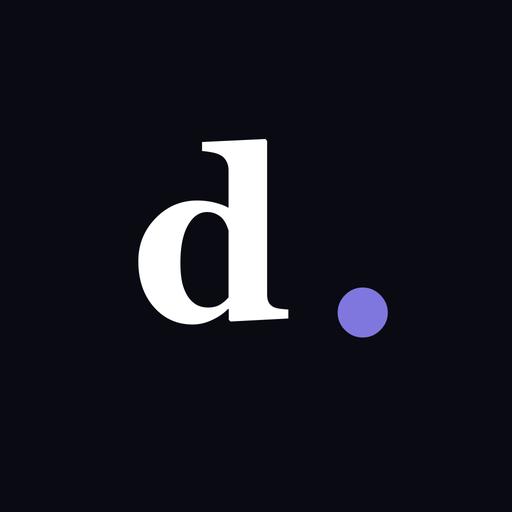
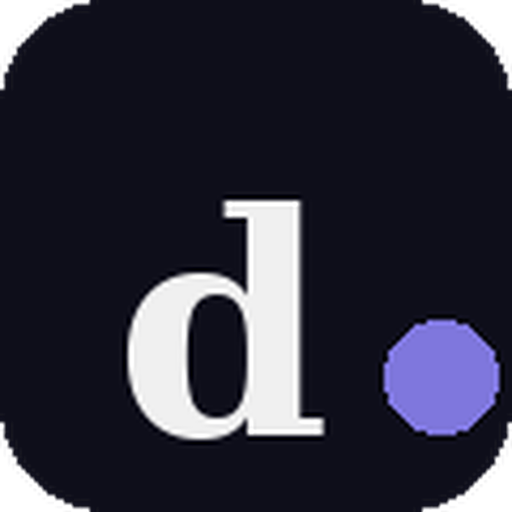
Update Dythin landing page and app layout features

diff --git a/index.html b/index.html
@@ -26,16 +26,14 @@
   <meta name="twitter:description" content="Kombinlerin ve kararsızlıkların için fotoğraflarınla anında canlı oy topla.">
   <meta name="twitter:image" content="https://images.unsplash.com/photo-1515886657613-9f3515b0c78f?auto=format&fit=crop&w=1200&h=630&q=80">
 
-  <!-- Favicons & Safari Tab Icons (Apple iOS/macOS) -->
+    <!-- Favicons & Safari Tab Icons (Direct Base64 & HD Files) -->
[2 lines of base64/hex data omitted]
   <link rel="apple-touch-icon" sizes="180x180" href="/apple-touch-icon.png">
   <link rel="icon" type="image/png" sizes="32x32" href="/favicon-32x32.png">
   <link rel="icon" type="image/png" sizes="16x16" href="/favicon-16x16.png">
-  <link rel="icon" type="image/png" href="/favicon.png">
-  <link rel="shortcut icon" href="/favicon.ico">
   <link rel="manifest" href="/site.webmanifest">
   <link rel="mask-icon" href="/safari-pinned-tab.svg" color="#7F77DD">
-  <meta name="msapplication-TileColor" content="#0e0e1a">
-  <meta name="theme-color" content="#000000">
   <meta name="apple-mobile-web-app-title" content="Dythin">
   <meta name="application-name" content="Dythin">
   

diff --git a/website/index.html b/website/index.html
@@ -26,16 +26,14 @@
   <meta name="twitter:description" content="Kombinlerin ve kararsızlıkların için fotoğraflarınla anında canlı oy topla.">
   <meta name="twitter:image" content="https://images.unsplash.com/photo-1515886657613-9f3515b0c78f?auto=format&fit=crop&w=1200&h=630&q=80">
 
-  <!-- Favicons & Safari Tab Icons (Apple iOS/macOS) -->
+    <!-- Favicons & Safari Tab Icons (Direct Base64 & HD Files) -->
[2 lines of base64/hex data omitted]
   <link rel="apple-touch-icon" sizes="180x180" href="/apple-touch-icon.png">
   <link rel="icon" type="image/png" sizes="32x32" href="/favicon-32x32.png">
   <link rel="icon" type="image/png" sizes="16x16" href="/favicon-16x16.png">
-  <link rel="icon" type="image/png" href="/favicon.png">
-  <link rel="shortcut icon" href="/favicon.ico">
   <link rel="manifest" href="/site.webmanifest">
   <link rel="mask-icon" href="/safari-pinned-tab.svg" color="#7F77DD">
-  <meta name="msapplication-TileColor" content="#0e0e1a">
-  <meta name="theme-color" content="#000000">
   <meta name="apple-mobile-web-app-title" content="Dythin">
   <meta name="application-name" content="Dythin">
   
